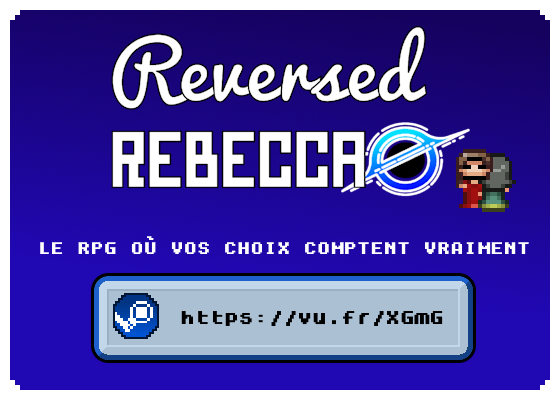
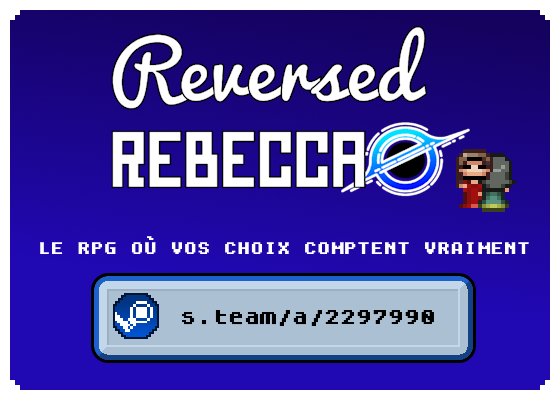
0.3.31.82 refresh of the visit card (dead link)

Changed region(s): [[0.3036, 0.75, 0.7893, 0.84]]

diff --git a/ReversedRebecca/src/com/sunsigne/reversedrebecca/Infos.java b/ReversedRebecca/src/com/sunsigne/reversedrebecca/Infos.java
@@ -5,7 +5,7 @@ import javax.swing.ImageIcon;
 public class Infos {
 
 	public static final String NAME = "Reversed Rebecca";
-	public static final String VERSION = "v.0.3.31.81";
+	public static final String VERSION = "v.0.3.31.82";
 	// public static final boolean IS_DEV_VERSION = System.getProperty("java.class.path").contains("\\git\\");
 	public static boolean IS_DEV_VERSION = true;
 	public static final ImageIcon ICON = new ImageIcon("icon.png");
